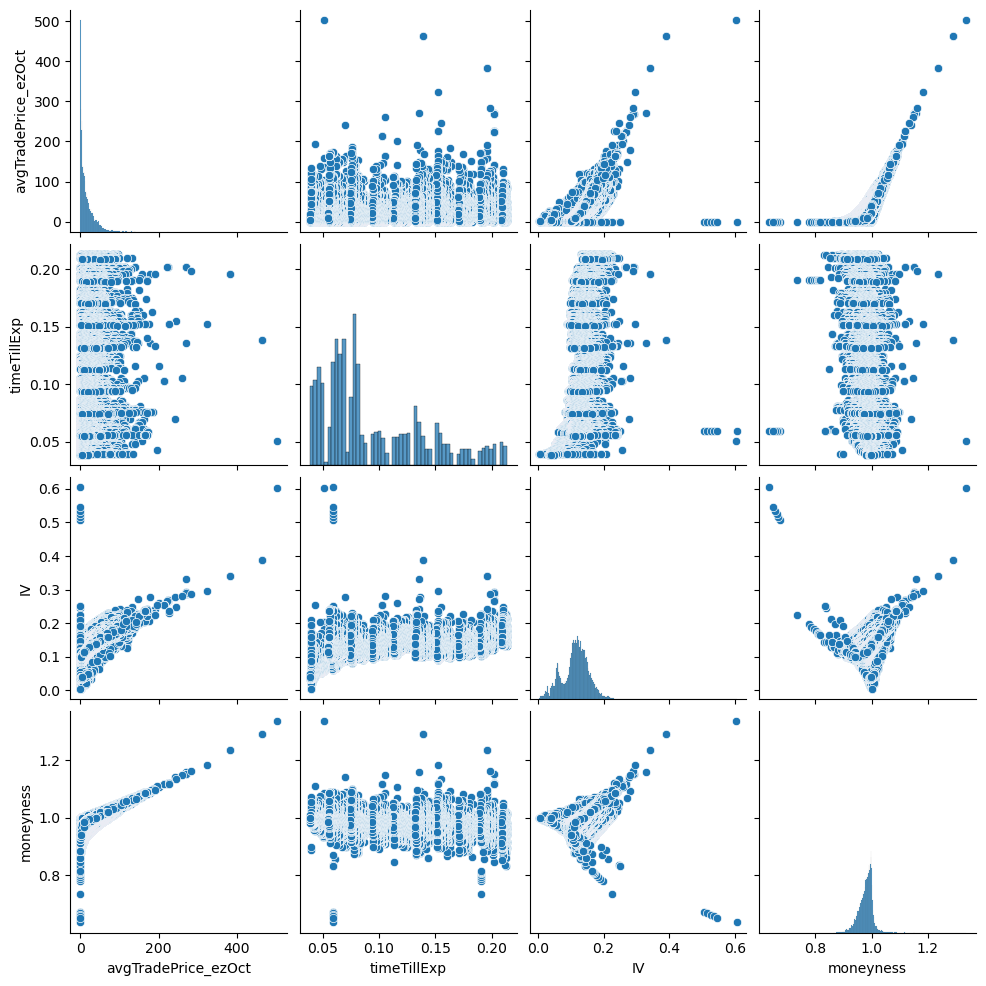
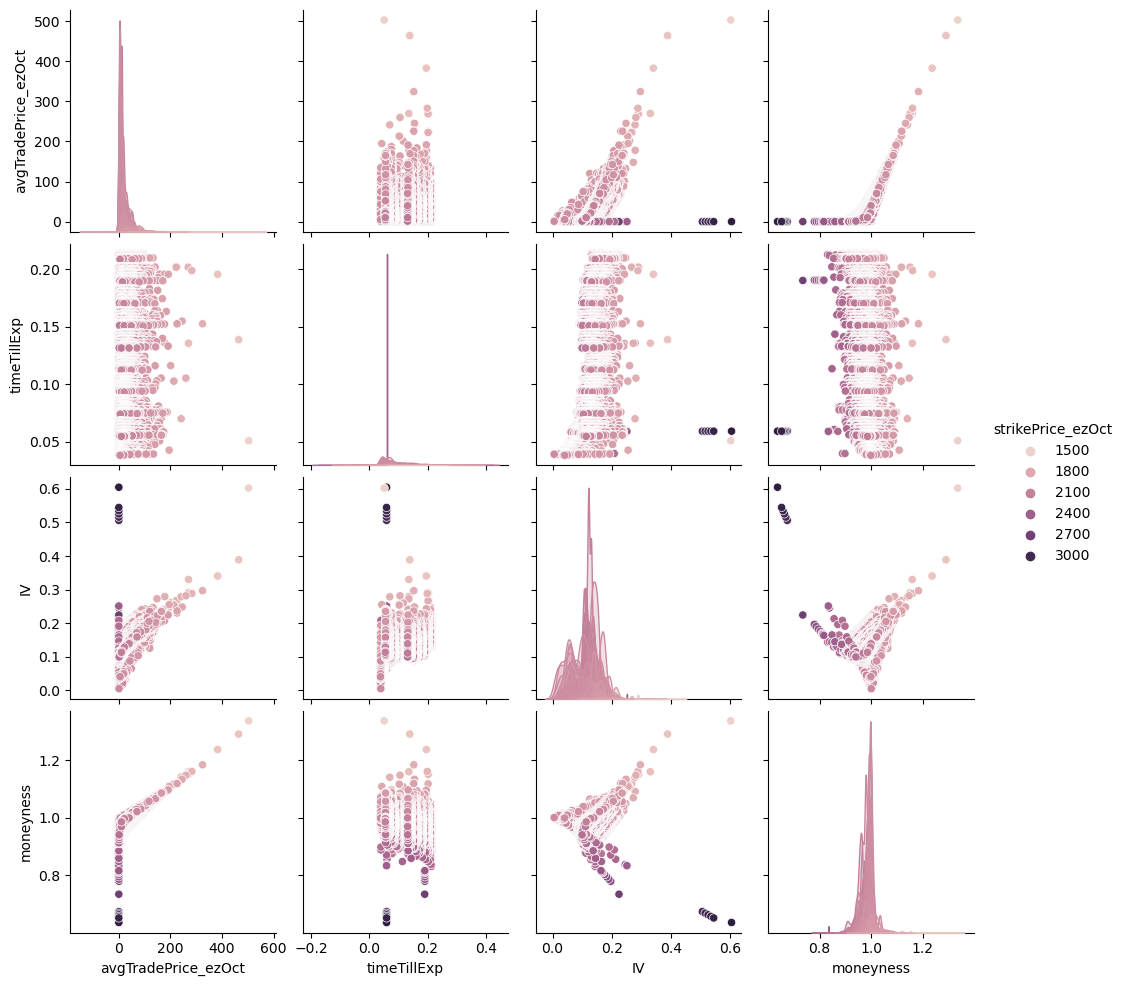
added hue to plot

diff --git a/index.html b/index.html
@@ -3,10 +3,11 @@
 "http://www.w3.org/TR/xhtml1/DTD/xhtml1-strict.dtd">
 <html xmlns="http://www.w3.org/1999/xhtml" lang="en" xml:lang="en">
 <head>
-<!-- 2021-12-30 Thu 09:36 -->
+<!-- 2021-12-30 Thu 19:05 -->
 <meta http-equiv="Content-Type" content="text/html;charset=utf-8" />
 <meta name="viewport" content="width=device-width, initial-scale=1" />
 <title>Deep Neural Nets for Option Pricing</title>
+<meta name="author" content="Matt Brigida, Ph.D." />
 <meta name="generator" content="Org Mode" />
 <style>
   #content { max-width: 60em; margin: auto; }
@@ -192,6 +193,12 @@
     { background-color: #ffff00; color: #000000; font-weight: bold; }
   .org-svg { width: 90%; }
 </style>
+<link rel="stylesheet" type="text/css" href="https://fniessen.github.io/org-html-themes/src/readtheorg_theme/css/htmlize.css"/>
+<link rel="stylesheet" type="text/css" href="https://fniessen.github.io/org-html-themes/src/readtheorg_theme/css/readtheorg.css"/>
+<script src="https://ajax.googleapis.com/ajax/libs/jquery/2.1.3/jquery.min.js"></script>
+<script src="https://maxcdn.bootstrapcdn.com/bootstrap/3.3.4/js/bootstrap.min.js"></script>
+<script type="text/javascript" src="https://fniessen.github.io/org-html-themes/src/lib/js/jquery.stickytableheaders.min.js"></script>
+<script type="text/javascript" src="https://fniessen.github.io/org-html-themes/src/readtheorg_theme/js/readtheorg.js"></script>
 </head>
 <body>
 <div id="content" class="content">
@@ -200,9 +207,9 @@
 <h2>Table of Contents</h2>
 <div id="text-table-of-contents" role="doc-toc">
 <ul>
-<li><a href="#org241413c">1. Data</a></li>
-<li><a href="#org5176371">2. Keras/Tensorflow</a></li>
-<li><a href="#org0f8db94">3. Pytorch</a></li>
+<li><a href="#orgc3580bc">1. Data</a></li>
+<li><a href="#org9a27428">2. Keras/Tensorflow</a></li>
+<li><a href="#orgc725fed">3. Pytorch</a></li>
 </ul>
 </div>
 </div>
@@ -210,8 +217,8 @@
 See this paper for an early analysis which used neural nets to learn the Black-Scholes model.
 </p>
 
-<div id="outline-container-org241413c" class="outline-2">
-<h2 id="org241413c"><span class="section-number-2">1.</span> Data</h2>
+<div id="outline-container-orgc3580bc" class="outline-2">
+<h2 id="orgc3580bc"><span class="section-number-2">1.</span> Data</h2>
 <div class="outline-text-2" id="text-1">
 <p>
 The data we'll use is
@@ -228,31 +235,32 @@ data.columns
 
 
 <div class="org-src-container">
-<pre class="src src-python">data.drop(columns=["tradeDate", "tradeTime", "strikePrice_ezOct", "avgTradePrice_esOct", "deliveryDate_ezOct", "deliveryDate_esOct", "BS", "Delta", "Gamma", "Vega", "Theta", "Rho"], axis=1, inplace=True)
+<pre class="src src-python">data.drop(columns=["tradeDate", "tradeTime", "deliveryDate_ezOct", "deliveryDate_esOct", "BS", "Delta", "Gamma", "Vega", "Theta", "Rho"], axis=1, inplace=True)
 data
 </pre>
 </div>
 
 <div class="org-src-container">
-<pre class="src src-python">call_plot = sns.pairplot(data[data["typeInd_ezOct"] == "call"])
+<pre class="src src-python">sns.color_palette("viridis", as_cmap=True)
+call_plot = sns.pairplot(data[data["typeInd_ezOct"] == "call"][["avgTradePrice_ezOct", "timeTillExp", "IV", "moneyness", "strikePrice_ezOct"]], hue="strikePrice_ezOct")
 call_plot.savefig('call_plot.png')
 </pre>
 </div>
 
 
-<div id="org06ca4e3" class="figure">
+<div id="org41c612e" class="figure">
 <p><img src="./call_plot.png" alt="call_plot.png" />
 </p>
 </div>
 
 <div class="org-src-container">
-<pre class="src src-python">put_plot = sns.pairplot(data[data["typeInd_ezOct"] == "put"])
+<pre class="src src-python">put_plot = sns.pairplot(data[data["typeInd_ezOct"] == "put"][["avgTradePrice_ezOct", "timeTillExp", "IV", "moneyness", "strikePrice_ezOct"]], hue="strikePrice_ezOct")
 put_plot.savefig('put_plot.png')
 </pre>
 </div>
 
 
-<div id="org89fc70a" class="figure">
+<div id="org8be9d74" class="figure">
 <p><img src="./put_plot.png" alt="put_plot.png" />
 </p>
 </div>
@@ -260,18 +268,19 @@ put_plot.savefig('put_plot.png')
 </div>
 
 
-<div id="outline-container-org5176371" class="outline-2">
-<h2 id="org5176371"><span class="section-number-2">2.</span> Keras/Tensorflow</h2>
+<div id="outline-container-org9a27428" class="outline-2">
+<h2 id="org9a27428"><span class="section-number-2">2.</span> Keras/Tensorflow</h2>
 </div>
 
 
 
-<div id="outline-container-org0f8db94" class="outline-2">
-<h2 id="org0f8db94"><span class="section-number-2">3.</span> Pytorch</h2>
+<div id="outline-container-orgc725fed" class="outline-2">
+<h2 id="orgc725fed"><span class="section-number-2">3.</span> Pytorch</h2>
 </div>
 </div>
 <div id="postamble" class="status">
-<p class="date">Created: 2021-12-30 Thu 09:36</p>
+<p class="author">Author: Matt Brigida, Ph.D.</p>
+<p class="date">Created: 2021-12-30 Thu 19:05</p>
 <p class="validation"><a href="https://validator.w3.org/check?uri=referer">Validate</a></p>
 </div>
 </body>
